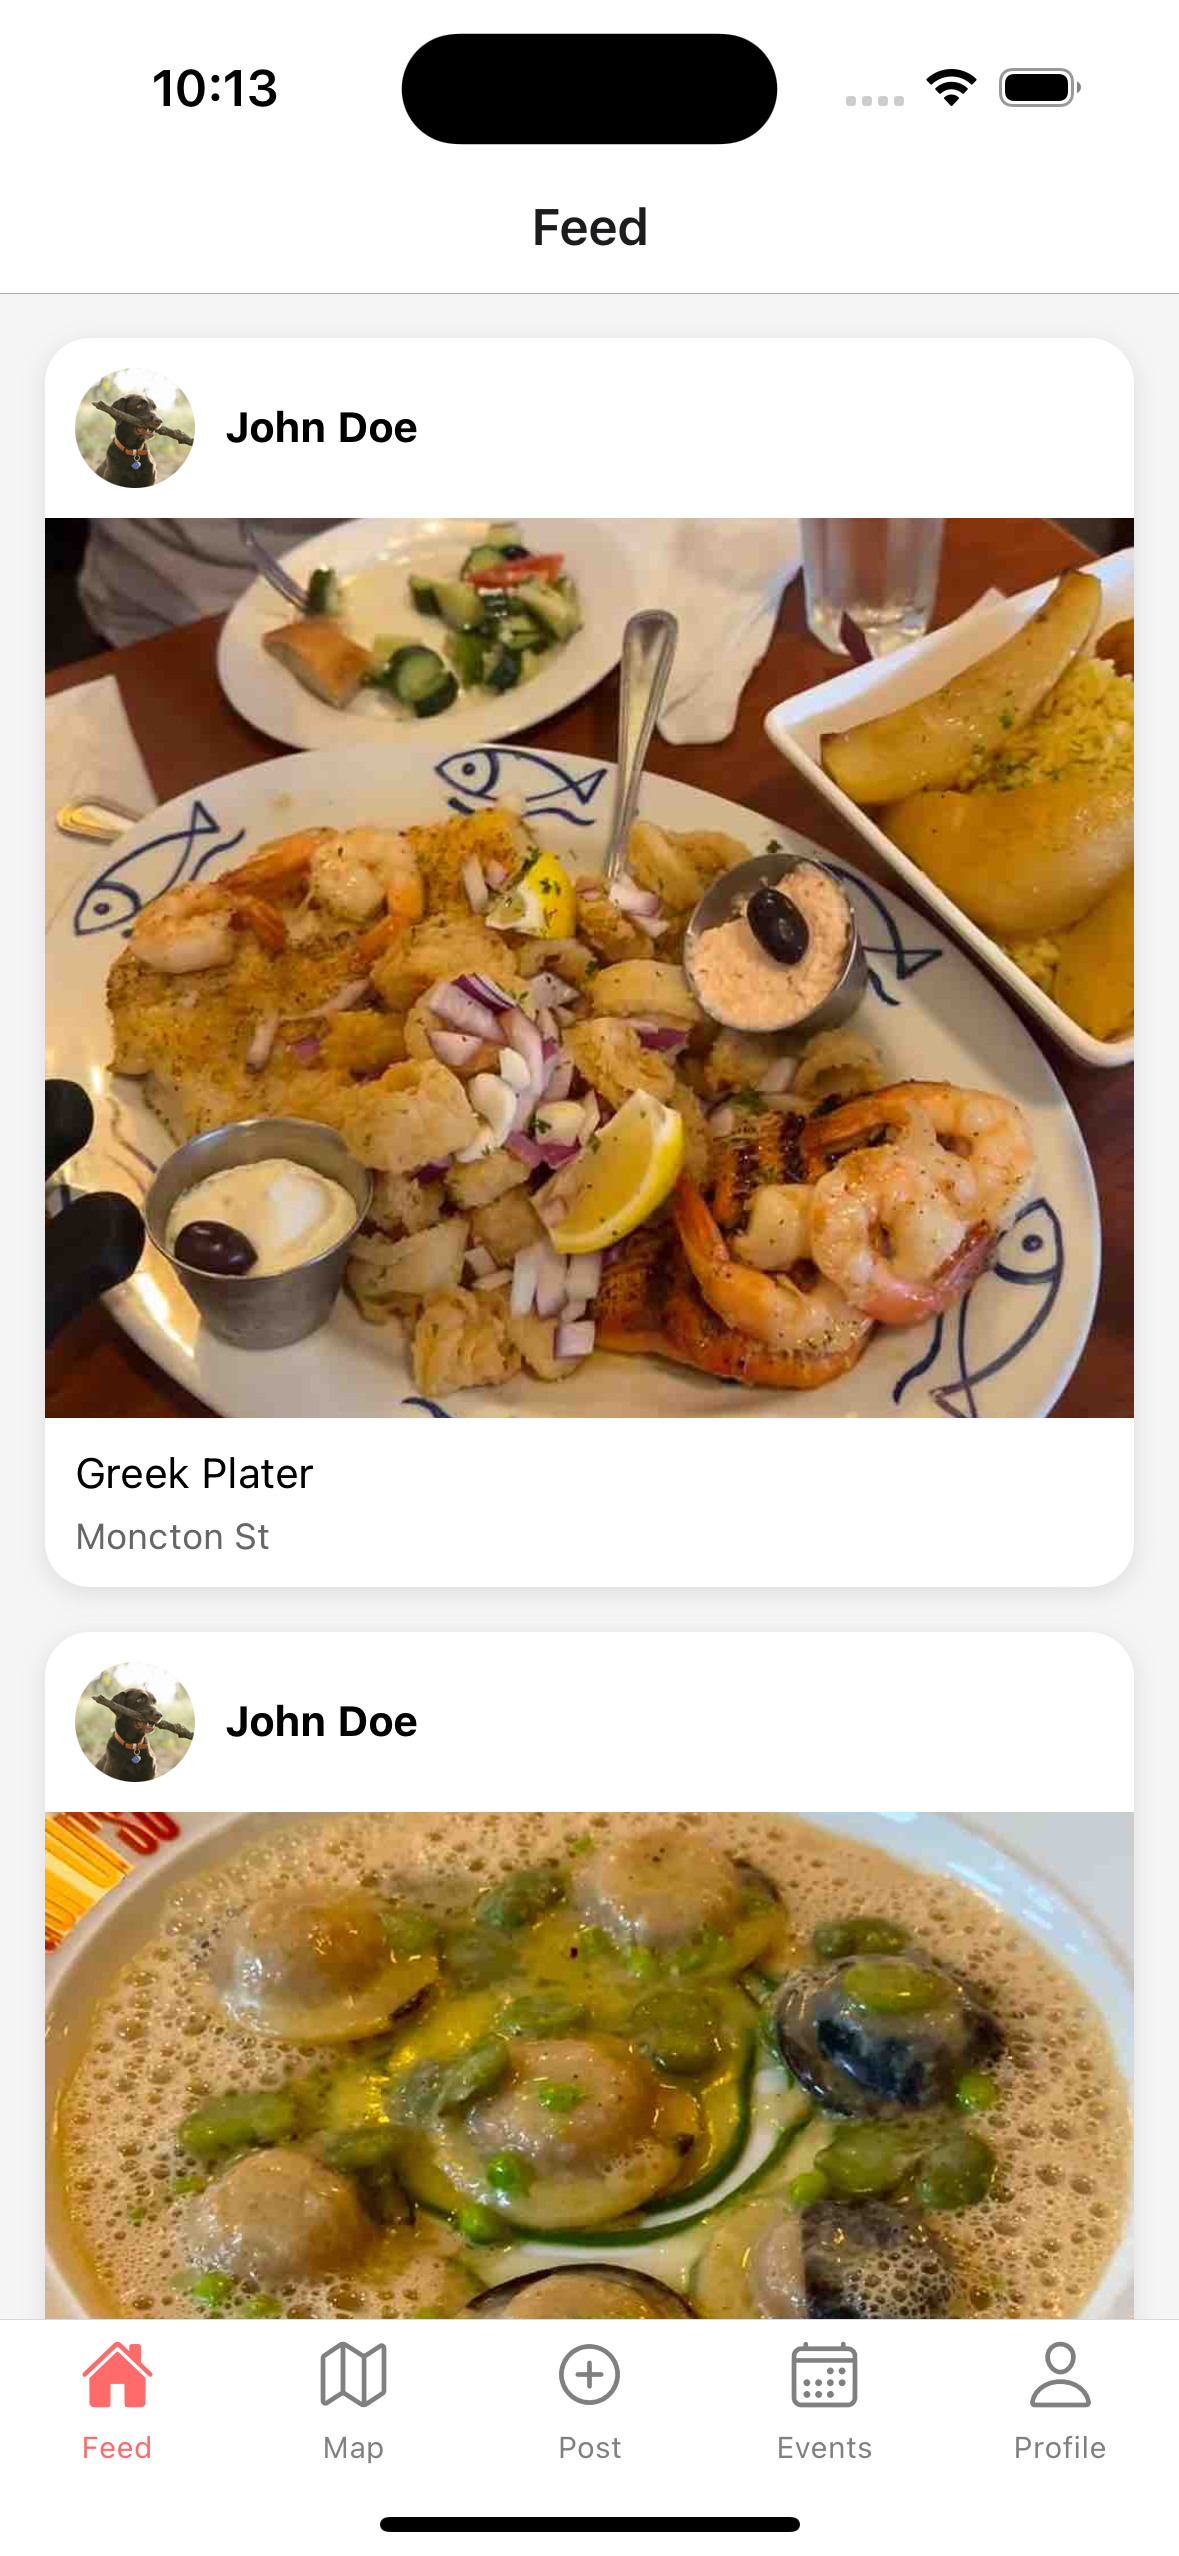
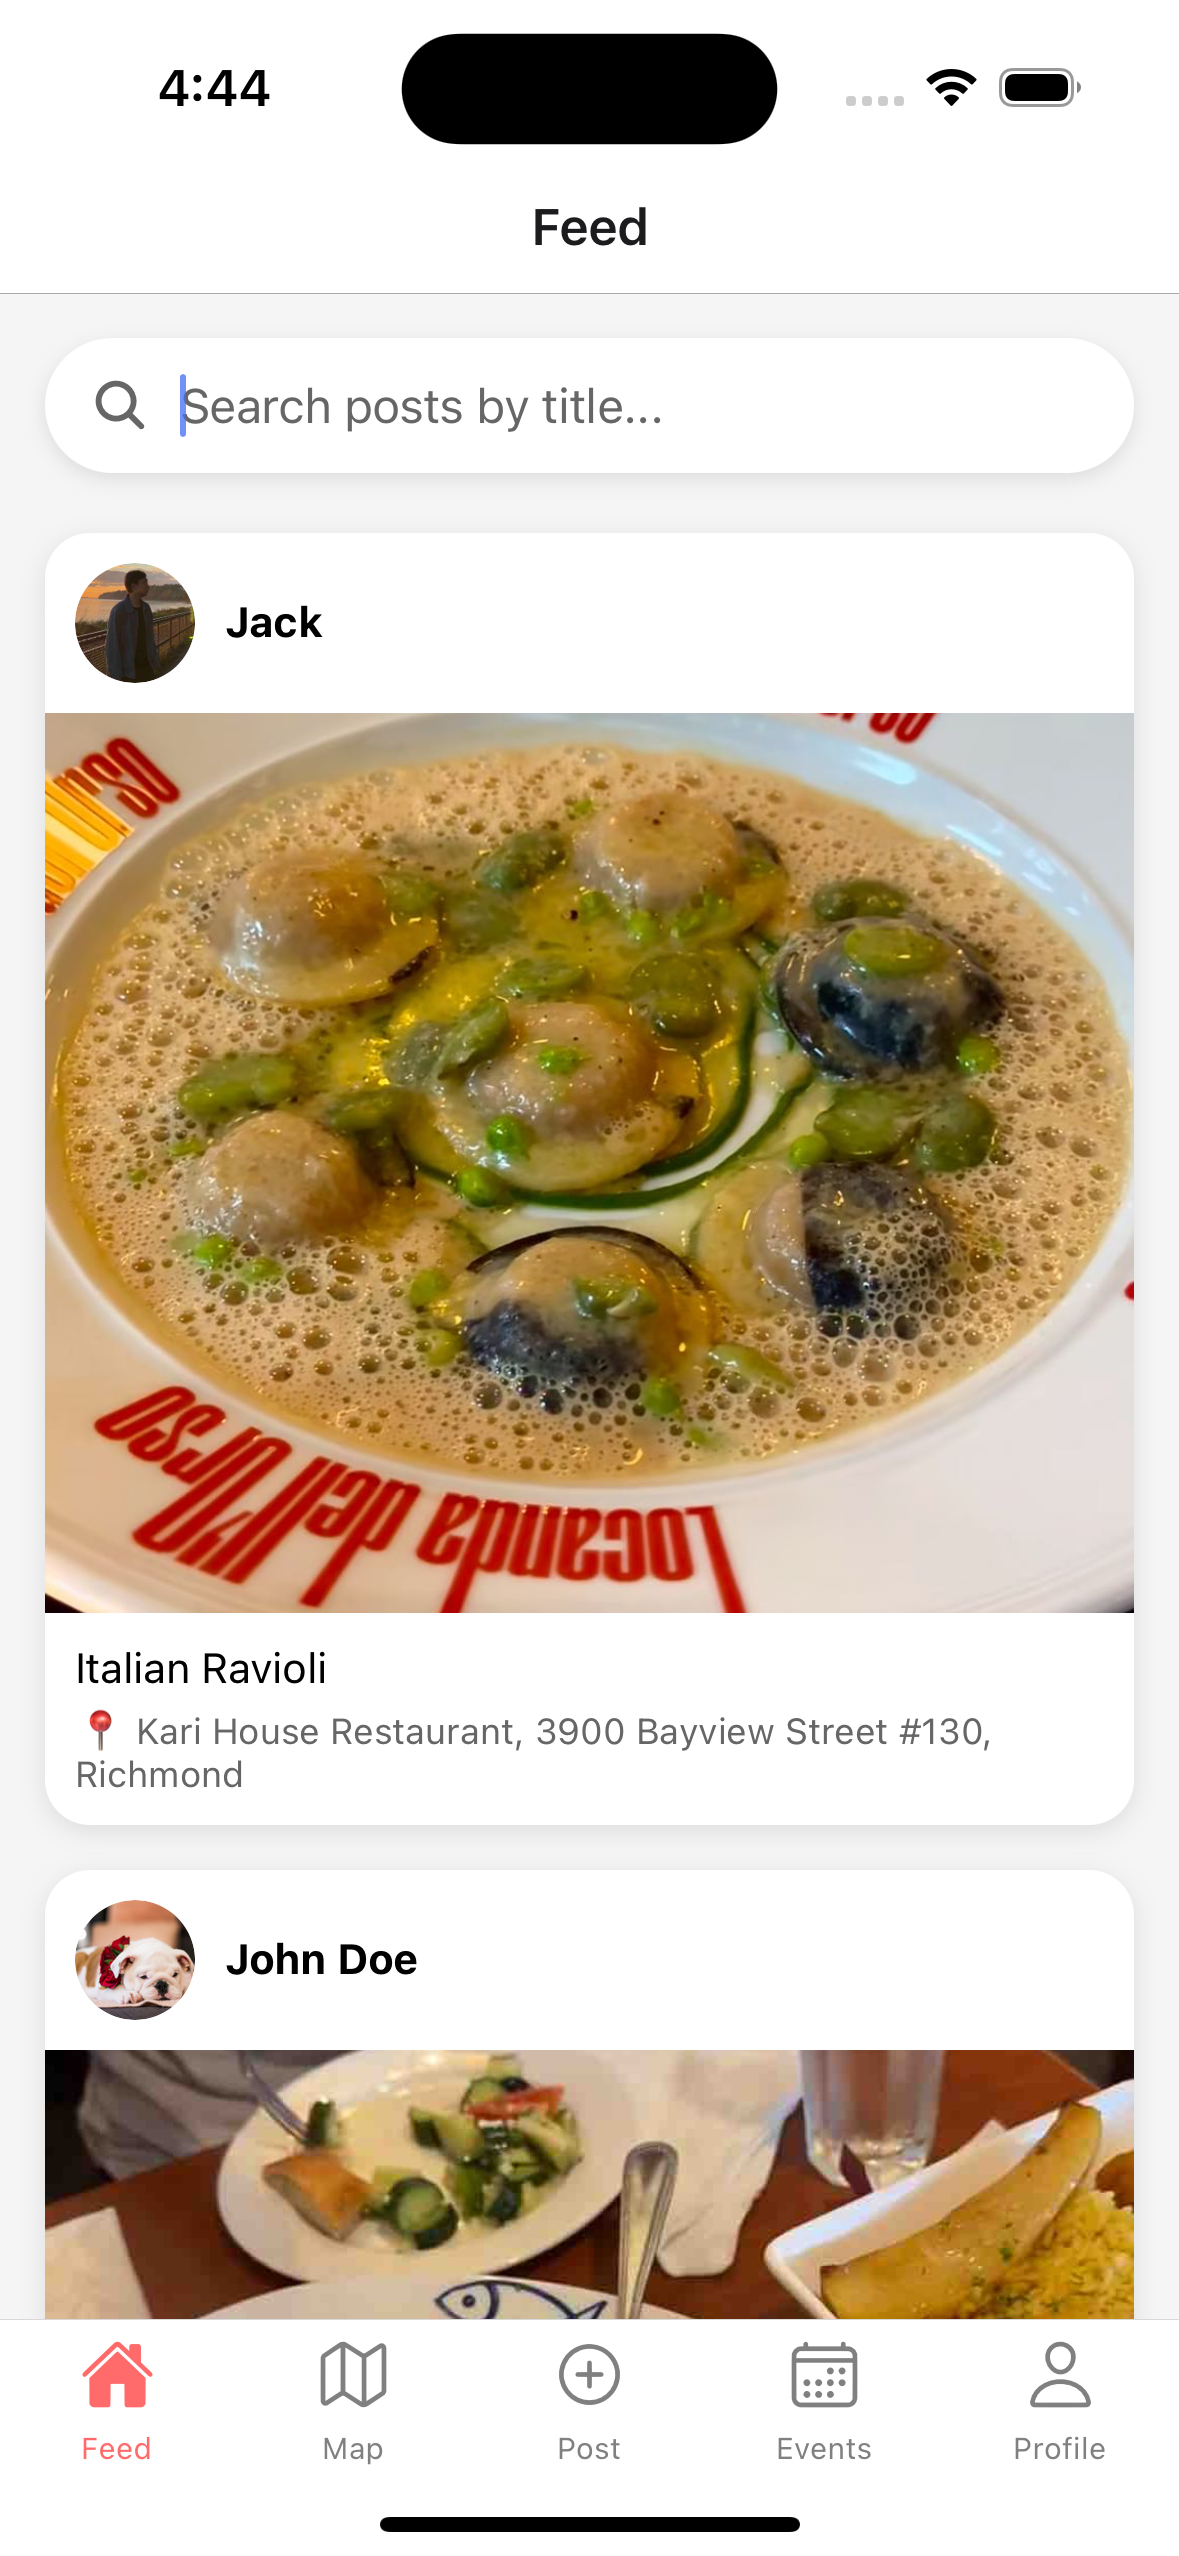
updated the README.md

diff --git a/README.md b/README.md
@@ -63,14 +63,14 @@ Key Features:
      - Temperature data
      - Location-based weather updates
 
-3. **Camera/Gallery Integration** ❌
+3. **Camera/Gallery Integration** ✅
      - Planned for next iteration
      - Photo capture from camera
      - Image selection from gallery
      - Image preview and management
      - Upload functionality
 
-4. **Authentication** ❌
+4. **Authentication** ✅
    - Planned for next iteration
    - Currently using dummy user data
 
@@ -86,9 +86,11 @@ Key Features:
 - Map interface
 - Weather integration
 - Restaurant search and selection
+- Feed posts search and display
+- Signup and Login interface
+- User Authentication
 
 🔄 In Progress:
-- Authentication system
 - Notification system
 - Camera/Gallery functionality
 
@@ -119,10 +121,22 @@ Key Features:
 
 #### Zecheng Zhou
 - Implemented main event functionality
-- Integrated the firestore database
-- Integrated the firebase image storage
+- Created the firestore database
+- Created the firebase image storage
 - Developed the profile features
-
+- **Technical Implementations:**
+  - Firebase integrations:
+    - Firestore database management
+    - Cloud storage for images
+    - Security rules implementation
+  - Authentication system
+    - Signup and Login
+    - Password vaildation and reset
+    - Persistent login and user logout
+  - Real-time data synchronization
+    - listening to database changes
+    - updating UI based on database changes
+  
 ## UI Sketches
 
 1. Main Page Feed(Jiale Zhang):
@@ -150,12 +164,29 @@ Key Features:
     - Personal profile
     - Account information
     - updating profile info
-    
+6. Guest Page (Zecheng Zhou):
+    - display current posts
+    - Enhance user engagement
 
 
 **CRUD operations for each page:**
 
-### **1. Main Page (Feed)**
+### **1. Guest Page**
+- **Read:**
+  - Users can view the current posts without signing up or logging in
+  - <img src="assets/GuestFeed.png" alt="guest" width="300"/>
+
+### **2. Signup and Login Page**
+- **Create:**
+  - Users can create new accounts with email and password
+  - Password validation with strength requirements
+  - <img src="assets/Signup.png" alt="signup" width="300"/>
+- **Read:**
+  - Users can log in with existing credentials
+  - Password reset functionality available
+  - <img src="assets/Login.png" alt="login" width="300"/>
+
+### **3. Main Page (Feed)**
 
 - **Read:**
     - Users can browse the feed to see food stories shared by themselves and others.
@@ -163,17 +194,18 @@ Key Features:
     - <img src="assets/Feed.png" alt="feed" width="300"/>
 
 
-### **2. Map Page**
+### **4. Map Page**
 
 - **Read:**
   - Users can view nearby restaurants on the map
   - Users can see restaurant details including name, rating, and open status
+  - Users can re-search restaurants by dragging the map
 - **Create:**
   - Users can select a restaurant to create a new post
   - Integration with Google Places API for restaurant data
 - <img src="assets/Map.png" alt="map" width="300"/>
 
-### **3. Post Page**
+### **5. Post Page**
 
 - **Create:**
   - Users can create new food posts by:
@@ -184,7 +216,7 @@ Key Features:
   - Restaurant information is automatically formatted when selected from map
 - <img src="assets/Post.png" alt="post" width="300"/>
 
-### **4. Events Page**
+### **6. Events Page**
 - **Create:**
     - Users can create new events, such as food festivals, restaurant openings, or cooking plans. Title, Location, Description and Schedule can be added to the events.
     - <img src="assets/NewEvent.png" alt="new event" width="300"/>
@@ -198,7 +230,7 @@ Key Features:
     - Users can delete their events, removing them from their event list, with an alert of comfirmation.
     - <img src="assets/DeleteEvent.png" alt="delete event" width="300"/>
 
-### **5. Profile Page**
+### **7. Profile Page**
 - **Read:**
     - Users can view their own profile, including their profile photo, account infomation and their post images.
     - <img src="assets/Profile.png" alt="profile" width="300"/>
@@ -219,9 +251,7 @@ users/{userId}
 - bio: string
 - profileImage: string
 - postsCount: int
-- followersCount: int
-- followingCount: int
-
+- eventsCount: int
 ```
 
 2. Posts Collection
